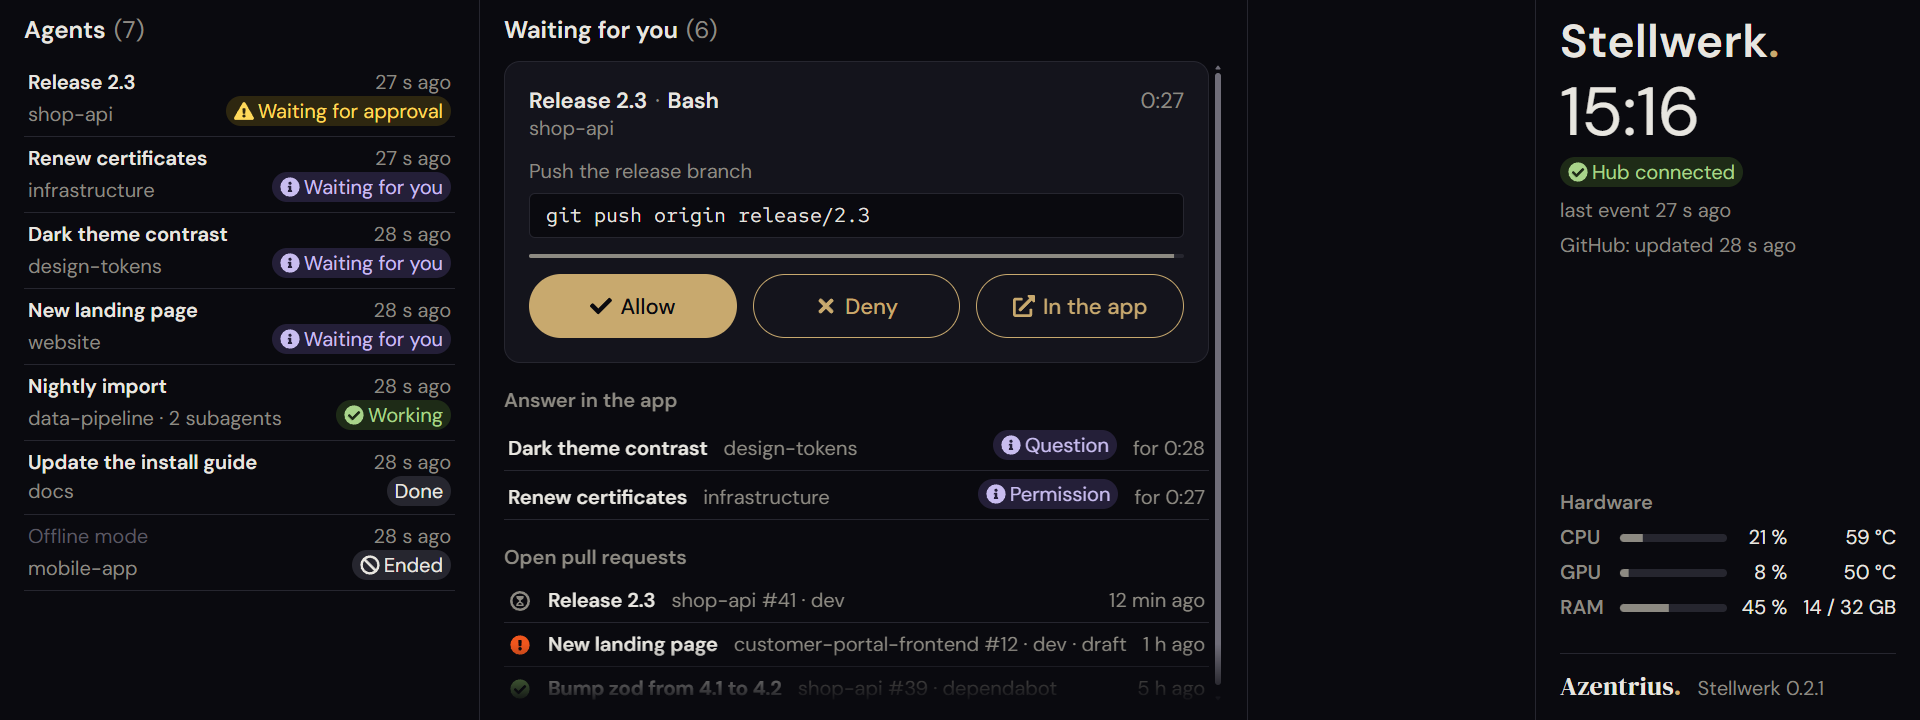
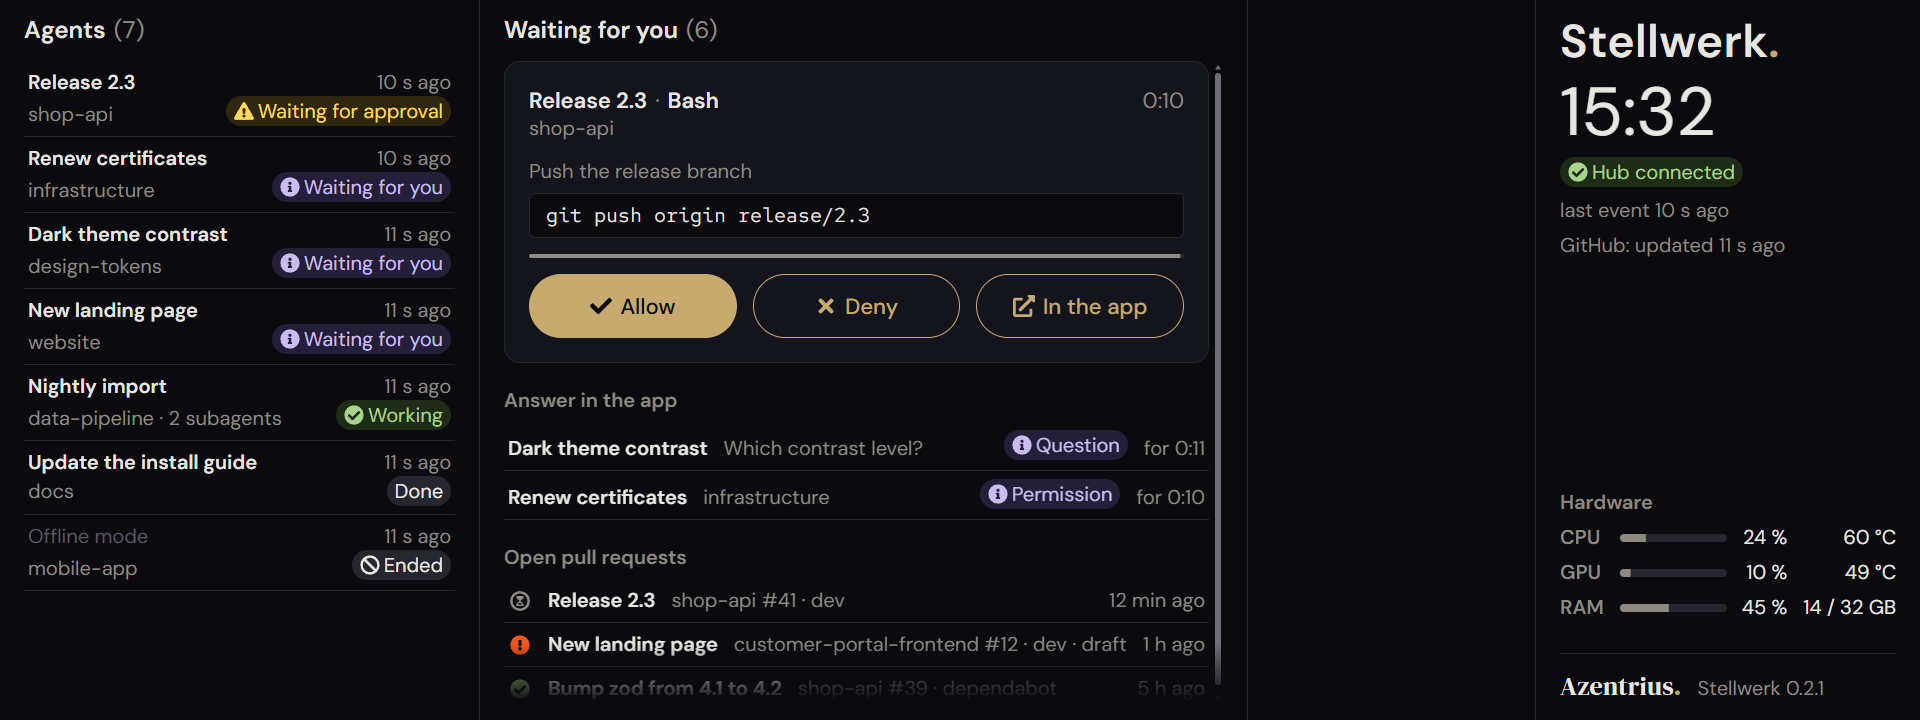
Count a question in the app's end-of-turn box as waiting for you
The desktop app ends many turns with its own box: a recap, a question and
answers to tap. It comes through the tool mcp__ccd_turn__wrap_up, not as
AskUserQuestion, and ends the turn, so the hub saw a plain Stop and showed
the session as done while it waited for an answer.

Probed with the raw hook log: the box fires PostToolUse with tool_input
{recap, ask, blocked, actions} and the Stop follows a few seconds later.
Now a PostToolUse of that tool by the main agent is remembered: with a
question the following Stop makes the session wait for it, with only
blocked: true for input. The next prompt ends the waiting as before.

"Answer in the app" shows the question, from the box or from
AskUserQuestion, instead of the project, as text, cut at 300 characters.
The recap and the answers stay out of the state.

diff --git a/src/hub/board.ts b/src/hub/board.ts
@@ -28,6 +28,15 @@ const WAITING_NOTIFICATIONS: Readonly<Record<string, WaitingFor>> = {
  */
 export const QUESTION_TOOLS: ReadonlySet<string> = new Set(['AskUserQuestion']);
 
+/**
+ * The desktop app's box at the end of a turn: a recap, often a question (`ask`) with answers to tap, and
+ * whether the session is `blocked` on the user. It ends the turn, so a Stop follows; with a question the
+ * session then waits for the user instead of being done.
+ */
+export const WRAP_UP_TOOL = 'mcp__ccd_turn__wrap_up';
+/** A question longer than this is cut; the display shows it in one line anyway. */
+export const MAX_QUESTION = 300;
+
 const STATUS_ORDER: Record<SessionStatus, number> = { permission: 0, waiting: 1, working: 2, done: 3, ended: 4 };
 
 /** The status a session has apart from open requests. */
@@ -41,6 +50,10 @@ interface Session {
   /** While base is 'waiting': what for, and since when. */
   waitingFor: WaitingFor | null;
   waitingSince: number | null;
+  /** While waiting for an answer: the question, if known. */
+  question: string | null;
+  /** The end-of-turn box asked something; the Stop that follows makes the session wait. */
+  wrapUp: { reason: 'question' | 'input'; question: string | null } | null;
   /** Subagents seen starting (by agent_id) and not yet stopped. */
   subagents: Set<string>;
   lastActivity: number;
@@ -52,14 +65,31 @@ function setStatus(session: Session, base: Exclude<BaseStatus, 'waiting'>): void
   session.base = base;
   session.waitingFor = null;
   session.waitingSince = null;
+  session.question = null;
 }
 
 /** The session waits for the user. Mere idleness never replaces a question, an input or a permission. */
-function waitFor(session: Session, reason: WaitingFor, now: number): void {
+function waitFor(session: Session, reason: WaitingFor, now: number, question: string | null = null): void {
   if (reason === 'idle' && session.base === 'waiting' && session.waitingFor !== null && session.waitingFor !== 'idle') return;
   if (session.base !== 'waiting' || session.waitingFor !== reason) session.waitingSince = now;
   session.base = 'waiting';
   session.waitingFor = reason;
+  session.question = reason === 'question' ? question : null;
+}
+
+/** A question as text for the display: trimmed, cut to MAX_QUESTION, null when there is none. */
+function questionText(value: unknown): string | null {
+  if (typeof value !== 'string') return null;
+  const text = value.trim().replace(/\s+/g, ' ');
+  if (text === '') return null;
+  return text.length > MAX_QUESTION ? `${text.slice(0, MAX_QUESTION)}…` : text;
+}
+
+/** What the end-of-turn box waits for: an answer to its question, some input, or nothing. */
+function wrapUpOf(input: Record<string, unknown> | undefined): Session['wrapUp'] {
+  const question = questionText(input?.ask);
+  if (question !== null) return { reason: 'question', question };
+  return input?.blocked === true ? { reason: 'input', question: null } : null;
 }
 
 export interface Permission {
@@ -99,16 +129,25 @@ export class Board {
       case 'UserPromptSubmit':
         // A new prompt: whatever the main agent asked before was answered in the app.
         setStatus(session, 'working');
+        session.wrapUp = null;
         return this.settleWhere((p) => p.sessionId === session.id && p.agentId === null, 'decided-in-app', now);
 
-      case 'Stop':
-        setStatus(session, 'done');
+      case 'Stop': {
+        // A turn that ended with a question in the app's box waits for the answer; otherwise it is done.
+        const wrapUp = session.wrapUp;
+        session.wrapUp = null;
+        if (wrapUp) waitFor(session, wrapUp.reason, now, wrapUp.question);
+        else setStatus(session, 'done');
         return this.settleWhere((p) => p.sessionId === session.id && p.agentId === null, 'decided-in-app', now);
+      }
 
       case 'PostToolUse':
       case 'PostToolUseFailure': {
         // The tool ran, so a matching open request was allowed in the app (and a question answered).
         setStatus(session, 'working');
+        if (event.hook_event_name === 'PostToolUse' && event.tool_name === WRAP_UP_TOOL && agentId === null) {
+          session.wrapUp = wrapUpOf(event.tool_input);
+        }
         const candidates = this.pendingOf(session.id).filter((p) => p.agentId === agentId && p.tool === event.tool_name);
         const inputKey = event.tool_input ? canonicalJson(event.tool_input) : null;
         const match =
@@ -139,6 +178,7 @@ export class Board {
         setStatus(session, 'ended');
         session.endedAt = now;
         session.subagents.clear();
+        session.wrapUp = null;
         return this.settleWhere((p) => p.sessionId === session.id, 'aborted', now);
 
       default:
@@ -170,7 +210,10 @@ export class Board {
 
   /** A question to the user (see QUESTION_TOOLS): no card, the session waits for the answer in the app. */
   askUser(event: PermissionRequestEvent, now: number): void {
-    waitFor(this.touch(event, now), 'question', now);
+    const questions = event.tool_input.questions;
+    const first: unknown = Array.isArray(questions) ? questions[0] : undefined;
+    const question = typeof first === 'object' && first !== null ? questionText((first as Record<string, unknown>).question) : null;
+    waitFor(this.touch(event, now), 'question', now, question);
   }
 
   /** Notes an event without changing the status. */
@@ -186,6 +229,8 @@ export class Board {
         base: 'done',
         waitingFor: null,
         waitingSince: null,
+        question: null,
+        wrapUp: null,
         subagents: new Set(),
         lastActivity: now,
         endedAt: null,
@@ -260,6 +305,7 @@ export class Board {
         status: this.statusOf(s),
         waitingFor: this.statusOf(s) === 'waiting' ? s.waitingFor : null,
         waitingSince: this.statusOf(s) === 'waiting' ? s.waitingSince : null,
+        question: this.statusOf(s) === 'waiting' ? s.question : null,
         subagents: s.subagents.size,
         lastActivity: s.lastActivity,
         endedAt: s.endedAt,

diff --git a/test/board.test.ts b/test/board.test.ts
@@ -8,7 +8,9 @@ import {
   Board,
   ENDED_VISIBLE_MS,
   IDLE_FORGET_MS,
+  MAX_QUESTION,
   SETTLED_VISIBLE_MS,
+  WRAP_UP_TOOL,
   canonicalJson,
   projectName,
 } from '../src/hub/board.ts';
@@ -267,6 +269,16 @@ describe('what a waiting session waits for', () => {
     assert.equal(waiting(board).waitingFor, 'permission', 'a request the hub never saw');
   });
 
+  test('a question asked with AskUserQuestion is kept for the display while it waits', () => {
+    const board = new Board();
+    board.askUser(request({ questions: [{ question: '  Which   contrast level? ', options: [] }] }, { tool_name: 'AskUserQuestion' }), 1);
+    assert.equal(board.view().sessions[0]?.question, 'Which contrast level?');
+    board.apply(event('PostToolUse', { tool_name: 'AskUserQuestion', tool_input: {} }), 2);
+    assert.equal(board.view().sessions[0]?.question, null, 'answered');
+    board.askUser(request({ questions: 'not a list' }, { tool_name: 'AskUserQuestion' }), 3);
+    assert.deepEqual([waiting(board).waitingFor, board.view().sessions[0]?.question], ['question', null]);
+  });
+
   test('mere idleness does not replace a question', () => {
     const board = new Board();
     board.askUser(request({ questions: [] }, { tool_name: 'AskUserQuestion' }), 1);
@@ -285,6 +297,63 @@ describe('what a waiting session waits for', () => {
     board.apply(event('Notification', { notification_type: 'idle_prompt' }), 1);
     board.addPermission('p1', request(), 2, HOLD);
     assert.deepEqual(waiting(board), { status: 'permission', waitingFor: null, waitingSince: null });
+  });
+});
+
+describe("the app's box at the end of a turn", () => {
+  const wrapUp = (input: Record<string, unknown>, extra: Record<string, unknown> = {}) =>
+    event('PostToolUse', { tool_name: WRAP_UP_TOOL, tool_input: { recap: 'Done with the first host.', ...input }, ...extra });
+  const session = (board: Board) => {
+    const s = board.view().sessions[0];
+    return { status: s?.status, waitingFor: s?.waitingFor, waitingSince: s?.waitingSince, question: s?.question };
+  };
+
+  test('with a question, the Stop that ends the turn makes the session wait for the answer', () => {
+    const board = new Board();
+    board.apply(event('UserPromptSubmit'), 1);
+    board.apply(wrapUp({ ask: 'Set up the other two hosts the same way?', blocked: true, actions: [{ label: 'Yes', message: 'Yes' }] }), 2);
+    assert.equal(session(board).status, 'working', 'the turn is not over yet');
+    board.apply(event('Stop'), 3);
+    assert.deepEqual(session(board), { status: 'waiting', waitingFor: 'question', waitingSince: 3, question: 'Set up the other two hosts the same way?' });
+    board.apply(event('Notification', { notification_type: 'idle_prompt' }), 4);
+    assert.equal(session(board).waitingFor, 'question', 'idleness does not replace it');
+    board.apply(event('UserPromptSubmit'), 5);
+    assert.deepEqual(session(board), { status: 'working', waitingFor: null, waitingSince: null, question: null });
+    board.apply(event('Stop'), 6);
+    assert.equal(session(board).status, 'done', 'the next turn without a box is done again');
+  });
+
+  test('blocked without a question waits for input; neither means done', () => {
+    const board = new Board();
+    board.apply(wrapUp({ blocked: true, ask: '   ' }), 1);
+    board.apply(event('Stop'), 2);
+    assert.deepEqual(session(board), { status: 'waiting', waitingFor: 'input', waitingSince: 2, question: null });
+    board.apply(event('UserPromptSubmit'), 3);
+    board.apply(wrapUp({ blocked: false }), 4);
+    board.apply(event('Stop'), 5);
+    assert.equal(session(board).status, 'done');
+  });
+
+  test('a long question is cut; a box from a subagent or a failed one does not count', () => {
+    const board = new Board();
+    board.apply(wrapUp({ ask: 'x'.repeat(MAX_QUESTION + 50) }), 1);
+    board.apply(event('Stop'), 2);
+    assert.equal(session(board).question, `${'x'.repeat(MAX_QUESTION)}…`);
+
+    for (const other of [wrapUp({ ask: 'Really?' }, { agent_id: 'a1' }), event('PostToolUseFailure', { tool_name: WRAP_UP_TOOL, tool_input: { ask: 'Really?' } })]) {
+      const b = new Board();
+      b.apply(other, 1);
+      b.apply(event('Stop'), 2);
+      assert.equal(session(b).status, 'done');
+    }
+  });
+
+  test('a session that ends forgets the question', () => {
+    const board = new Board();
+    board.apply(wrapUp({ ask: 'Go on?' }), 1);
+    board.apply(event('SessionEnd'), 2);
+    board.apply(event('Stop'), 3);
+    assert.equal(session(board).status, 'done');
   });
 });
 

diff --git a/test/hub.test.ts b/test/hub.test.ts
@@ -570,9 +570,38 @@ describe('permission requests', () => {
     assert.ok(Date.now() - started < 1000, 'answered at once');
     const state = await screen.state((s) => s.sessions[0]?.status === 'waiting');
     assert.equal(state.permissions.length, 0);
+    assert.equal(state.sessions[0]?.question, 'Which one?');
     await hook(port, { hook_event_name: 'PostToolUse', tool_name: 'AskUserQuestion', tool_input: {} }).reply;
     await screen.state((s) => s.sessions[0]?.status === 'working');
     assert.deepEqual(auditLines(auditFile), []);
+    screen.close();
+  });
+
+  test("a turn that ends with a question in the app's box waits for the answer, as the app sends it", async () => {
+    const { port } = await startTestHub();
+    const screen = await display(port);
+    // As probed on 2026-10-16: PostToolUse of the box (mcp_server as an object), a Stop a few seconds later.
+    const box = await hook(port, {
+      hook_event_name: 'PostToolUse',
+      tool_name: 'mcp__ccd_turn__wrap_up',
+      mcp_server: { name: 'ccd_turn', source: 'sdk' },
+      tool_use_id: 'toolu_1',
+      tool_input: {
+        recap: 'The first host is done.',
+        ask: 'Set up the other two hosts the same way?',
+        blocked: true,
+        actions: [{ label: 'Yes, both', message: 'Yes, both' }, { label: 'Not now', message: 'Not now' }],
+      },
+      tool_response: [{ type: 'text', text: 'Shown in the next-step box.' }],
+    }).reply;
+    assert.equal(box.status, 200);
+    await hook(port, { hook_event_name: 'Stop', stop_hook_active: false }).reply;
+    const state = await screen.state((s) => s.sessions[0]?.status === 'waiting');
+    assert.equal(state.sessions[0]?.waitingFor, 'question');
+    assert.equal(state.sessions[0]?.question, 'Set up the other two hosts the same way?');
+    assert.doesNotMatch(JSON.stringify(state), /first host is done/, 'the recap stays out of the state');
+    await hook(port, { hook_event_name: 'UserPromptSubmit' }).reply;
+    await screen.state((s) => s.sessions[0]?.status === 'working' && s.sessions[0]?.question === null);
     screen.close();
   });
 

diff --git a/ui/src/answers.ts b/ui/src/answers.ts
@@ -1,6 +1,7 @@
 // Below the cards: sessions that wait for an answer in the app (a question, some input, or a permission
 // whose card is open there). Nothing to decide on the display, but it shows who is waiting, why and how
-// long. One line each, so they still fit below a card or two: name, project, the reason and how long.
+// long. One line each, so they still fit below a card or two: name, the question if known (otherwise the
+// project), the reason and how long.
 //
 // SPDX-License-Identifier: Apache-2.0
 
@@ -26,7 +27,7 @@ export function renderAnswers(list: HTMLElement, sessions: Array<SessionView & {
       const { name, project } = naming(session.project, session.title, session.id);
       const since = session.waitingSince === null ? '' : texts.since(duration(now - session.waitingSince));
       // The same state as "waiting for you" in the agents column: a note, with the reason as its word.
-      return entry('answer entry--short', name, since, project, state('info', texts.waitingFor[session.waitingFor]));
+      return entry('answer entry--short', name, since, session.question ?? project, state('info', texts.waitingFor[session.waitingFor]));
     }),
   );
 }

diff --git a/src/shared/protocol.d.ts b/src/shared/protocol.d.ts
@@ -21,6 +21,8 @@ export interface SessionView {
   /** Set while the status is 'waiting'. */
   waitingFor: WaitingFor | null;
   waitingSince: number | null;
+  /** While waiting for an answer: the question asked, from AskUserQuestion or the app's end-of-turn box. */
+  question: string | null;
   /** Subagents started and not yet stopped. */
   subagents: number;
   lastActivity: number;

diff --git a/README.md b/README.md
@@ -20,9 +20,10 @@ every train on the track diagram and sets the signals.
 - **The app works as before.** The Claude desktop app shows its own card at the same time, and whichever
   decides first counts. If nobody decides on the display within the hold time (60 s), the request goes
   back to the app. If the hub is not running, Claude Code simply asks in the app, without error messages.
-- **What waits in the app.** When Claude asks you something (multiple choice), needs some input, or has
-  a permission open in the app, the session is listed below the cards under "Answer in the app", with
-  how long it has been waiting. You answer in the app; allow or deny would not answer a question.
+- **What waits in the app.** When Claude asks you something (multiple choice, or in the desktop app's box
+  at the end of a turn), needs some input, or has a permission open in the app, the session is listed
+  below the cards under "Answer in the app", with the question and how long it has been waiting. You
+  answer in the app; allow or deny would not answer a question.
 - **Open pull requests, if you like.** With a read-only GitHub token, the open pull requests of one
   owner (all repositories) are listed too, each with the state of its Actions runs.
 - **Hardware, if you like.** Load and temperature of processor and graphics card and the memory in use,

diff --git a/CHANGELOG.md b/CHANGELOG.md
@@ -2,8 +2,15 @@
 
 ## 0.2.1 – not released yet
 
-More room for the repository in the list of open pull requests.
+More room for the repository in the list of open pull requests; questions in the app's box at the end of
+a turn count as waiting for you.
 
+- **Questions at the end of a turn:** when Claude ends a turn in the desktop app with its box that asks
+  you something (a recap, a question and answers to tap), the session no longer shows as done: it waits
+  for you and is listed under "Answer in the app" with the question, until your next prompt. A box that
+  only says Claude is blocked on you counts as waiting for input.
+- **The question itself:** "Answer in the app" shows the question asked, from that box or from a multiple
+  choice question, instead of the project.
 - **Checks as an icon:** the state of a pull request's checks stands as its icon alone, in front of the
   title: passed, failed, or the hourglass while they run; no checks leave the place empty. The word stays
   as the icon's tooltip and its name for screen readers. The room goes to repository, number and author.
